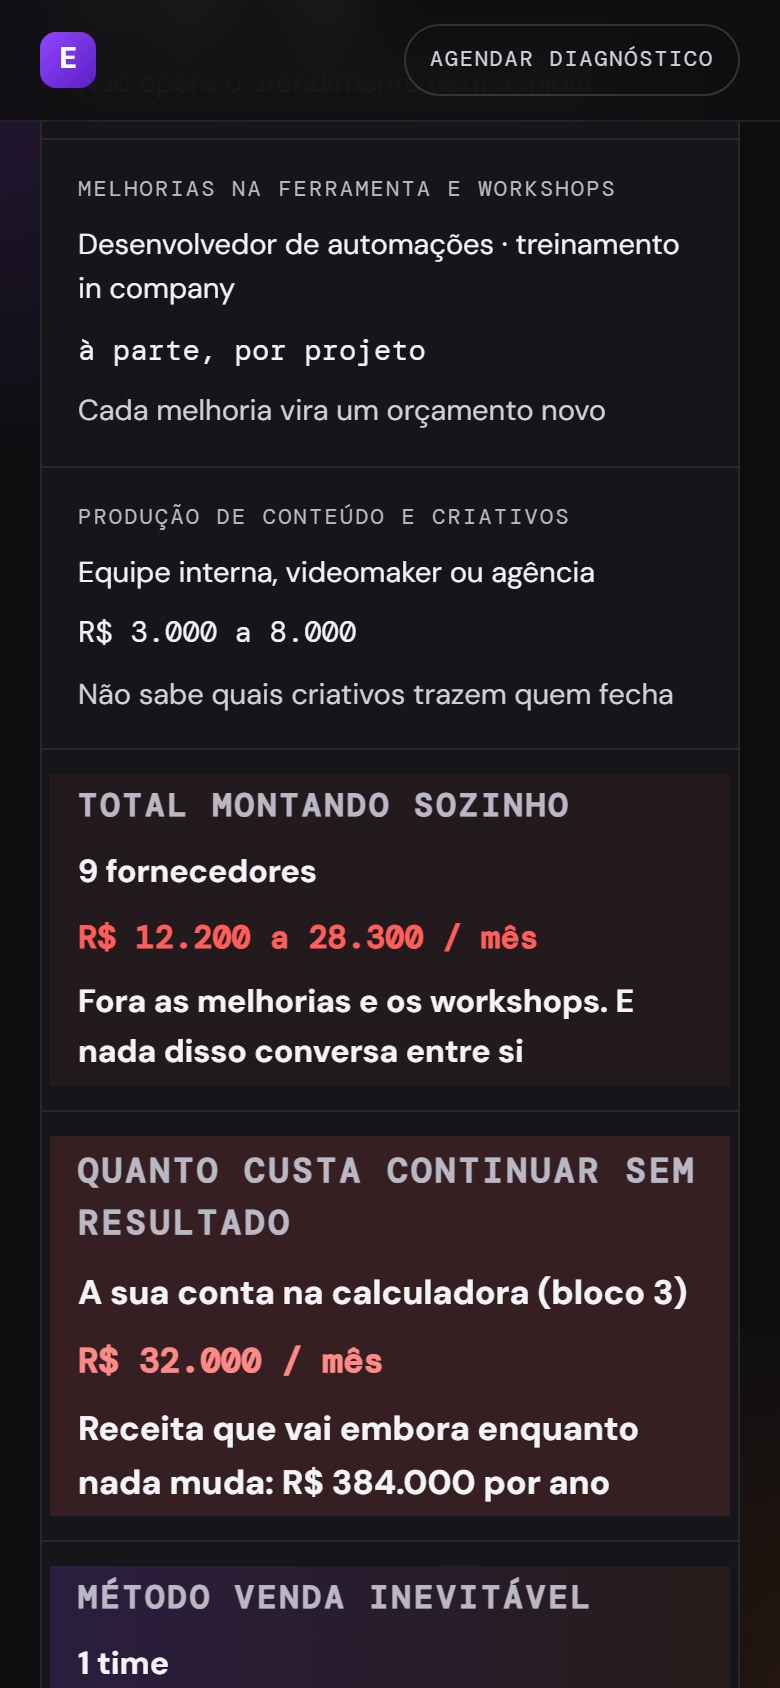
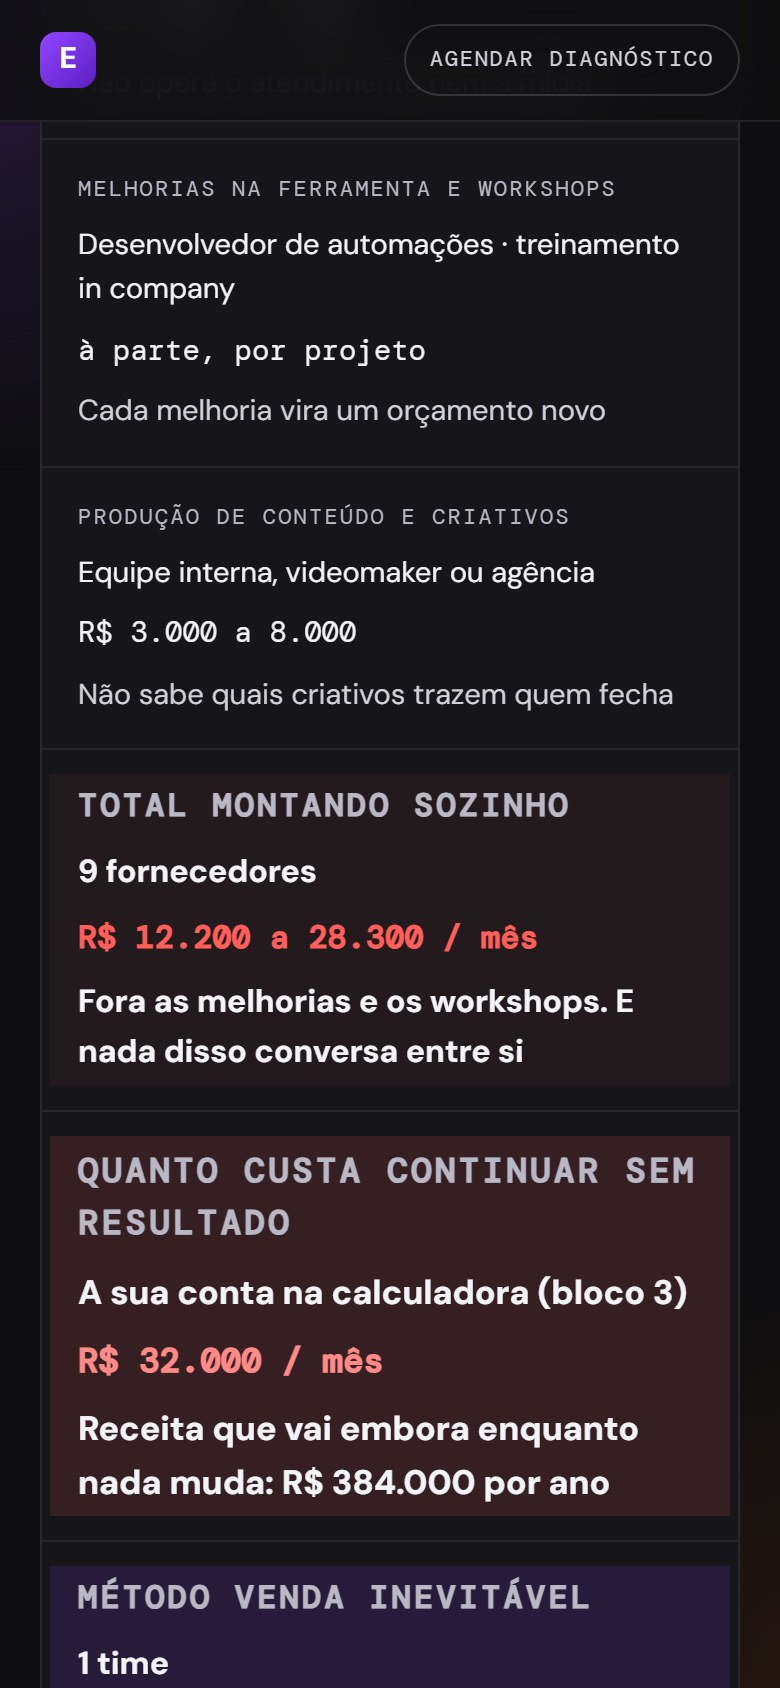
style(metodo): escolhas do Thiago - bloco 2 e linha do Método na tabela sem degradê
Bloco "Como é hoje": fundo avermelhado igual no bloco todo, caixa "O verdadeiro problema",
etiqueta "Com o Método" e cartões 21×/7× com cor uniforme. Tabela: linha do Método em roxo
uniforme (o degradê recomeçava em cada coluna). Comparativo atualizado com a versão nova.

Changed region(s): [[0.7385, 0.9242, 0.9538, 1.0]]

diff --git a/metodo.html b/metodo.html
@@ -103,7 +103,7 @@ h1 em{font-style:normal;color:var(--orange)}
 .tl.ruim::before{background:var(--red);box-shadow:0 0 0 4px rgba(255,94,91,.15)}
 .tl time{font-family:var(--fM);font-size:12px;color:var(--dim);letter-spacing:.06em}
 .tl p{font-size:17px}
-.vilao{margin-top:34px;padding:22px 24px;border-radius:16px;border:1px solid rgba(224,96,16,.35);background:linear-gradient(120deg,var(--orange-soft),transparent);font-size:clamp(20px,2.6vw,28px);font-weight:700;letter-spacing:-.015em;max-width:34ch}
+.vilao{margin-top:34px;padding:22px 24px;border-radius:14px;border:1px solid rgba(224,96,16,.35);background:rgba(224,96,16,.07);font-size:clamp(20px,2.6vw,28px);font-weight:700;letter-spacing:-.015em;max-width:34ch}
 .vilao small{display:block;font-family:var(--fM);font-size:11px;letter-spacing:.14em;text-transform:uppercase;color:var(--orange2);font-weight:400;margin-bottom:8px}
 .dado-rapidez{margin-top:22px;display:grid;grid-template-columns:repeat(auto-fit,minmax(240px,1fr));gap:12px}
 .dado-rapidez div{border:1px solid var(--line);border-radius:14px;padding:16px;background:var(--card)}
@@ -208,7 +208,7 @@ h1 em{font-style:normal;color:var(--orange)}
 .tabela td .nao{color:var(--muted)}
 .tabela tr.soma td{background:rgba(255,94,91,.06);font-weight:700;font-size:16px}
 .tabela tr.soma td.preco{color:var(--red)}
-.tabela tr.metodo td{background:linear-gradient(90deg,rgba(145,70,255,.16),rgba(224,96,16,.08));font-weight:700;font-size:16px;border-bottom:none}
+.tabela tr.metodo td{background:rgba(145,70,255,.14);font-weight:700;font-size:16px;border-bottom:none}
 @media (max-width:760px){
   .tabela thead{display:none}
   .tabela tr{display:block;border-bottom:1px solid var(--line);padding:12px 4px}
@@ -265,7 +265,6 @@ h1 em{font-style:normal;color:var(--orange)}
 .rodape a{color:var(--dim)}
 
 /* v2: "Como é hoje" com mais peso */
-#hoje{background:linear-gradient(180deg, rgba(255,94,91,.07), rgba(255,94,91,0) 70%)}
 #hoje h2{font-size:clamp(36px,6vw,76px);max-width:16ch}
 #hoje h2 em{color:var(--red)}
 .pixel-cego{margin-top:26px;display:flex;gap:18px;align-items:flex-start;padding:22px 24px;border-radius:18px;border:1px solid rgba(255,94,91,.35);background:rgba(255,94,91,.06);max-width:820px}
@@ -275,7 +274,7 @@ h1 em{font-style:normal;color:var(--orange)}
 .pixel-cego p span{color:var(--muted)}
 .tl p{font-size:18px}
 .dado-rapidez{grid-template-columns:repeat(auto-fit,minmax(280px,1fr));gap:16px;margin-top:26px}
-.dado-rapidez div{padding:26px;border-color:rgba(224,96,16,.35);background:linear-gradient(150deg,rgba(224,96,16,.12),var(--card) 60%)}
+.dado-rapidez div{padding:26px;border-color:rgba(224,96,16,.35);background:rgba(224,96,16,.06)}
 .dado-rapidez b{font-size:clamp(56px,7vw,84px);line-height:1;letter-spacing:-.04em;color:var(--orange2);margin-bottom:8px;font-variant-numeric:tabular-nums}
 .dado-rapidez span{font-size:16px;color:var(--text)}
 /* sliders iguais em todo navegador */
@@ -311,12 +310,12 @@ h1 em{font-style:normal;color:var(--orange)}
 @media (max-width:980px){.prints-tres{grid-template-columns:1fr}}
 
 /* v3: "Como é hoje" = o problema do mercado */
-#hoje{background:linear-gradient(180deg, rgba(255,94,91,.12), rgba(255,94,91,.02) 80%);border-top:1px solid rgba(255,94,91,.35)}
+#hoje{background:rgba(255,94,91,.05);border-top:1px solid rgba(255,94,91,.35)}
 #hoje .eyebrow{border-color:rgba(255,94,91,.5);background:rgba(255,94,91,.12);color:#FF9C9A}
 #hoje .eyebrow .n{background:var(--red)}
 .alerta-mercado{display:inline-block;margin:0 0 14px;font-family:var(--fM);font-size:13px;letter-spacing:.14em;text-transform:uppercase;color:#FF9C9A}
 .contraste{margin-top:22px;display:flex;align-items:center;gap:12px;flex-wrap:wrap;font-size:clamp(18px,2vw,22px);font-weight:700}
-.contraste span{padding:6px 12px;border-radius:999px;background:linear-gradient(90deg,var(--purple),var(--orange));color:#fff;font-size:14px;letter-spacing:.06em;text-transform:uppercase}
+.contraste span{padding:6px 12px;border-radius:999px;background:var(--purple);color:#fff;font-size:14px;letter-spacing:.06em;text-transform:uppercase}
 /* v3: 2 IAs com linhas equilibradas */
 .duas-baixo{margin-top:16px;display:grid;grid-template-columns:1fr 1fr;gap:16px;align-items:stretch}
 @media (max-width:860px){.duas-baixo{grid-template-columns:1fr}}
